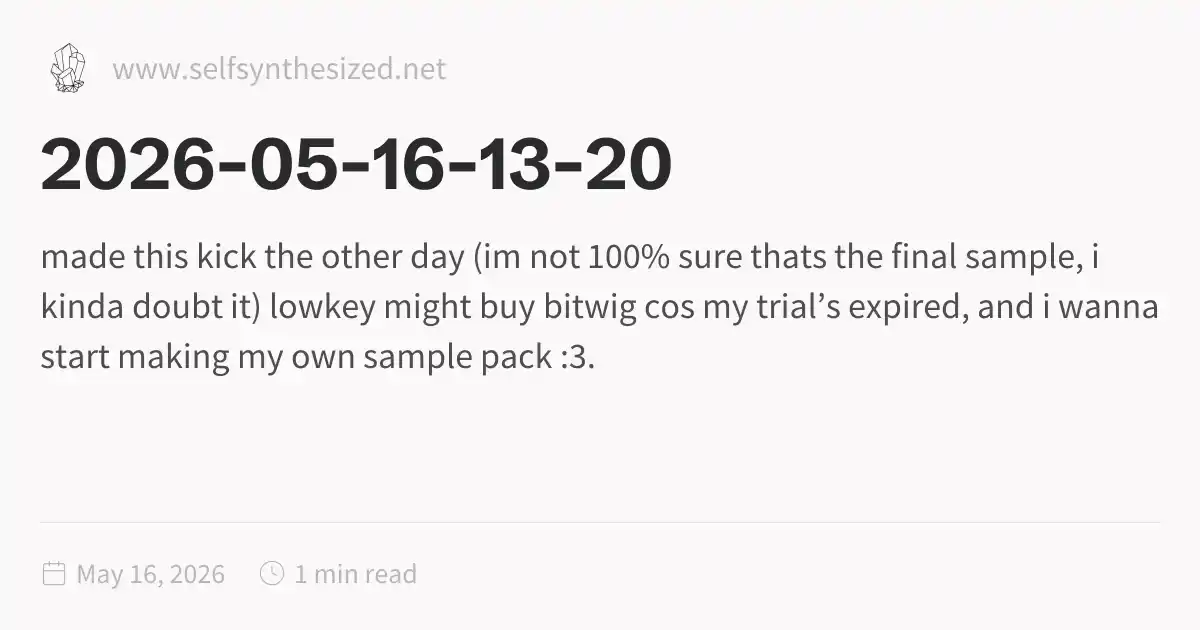
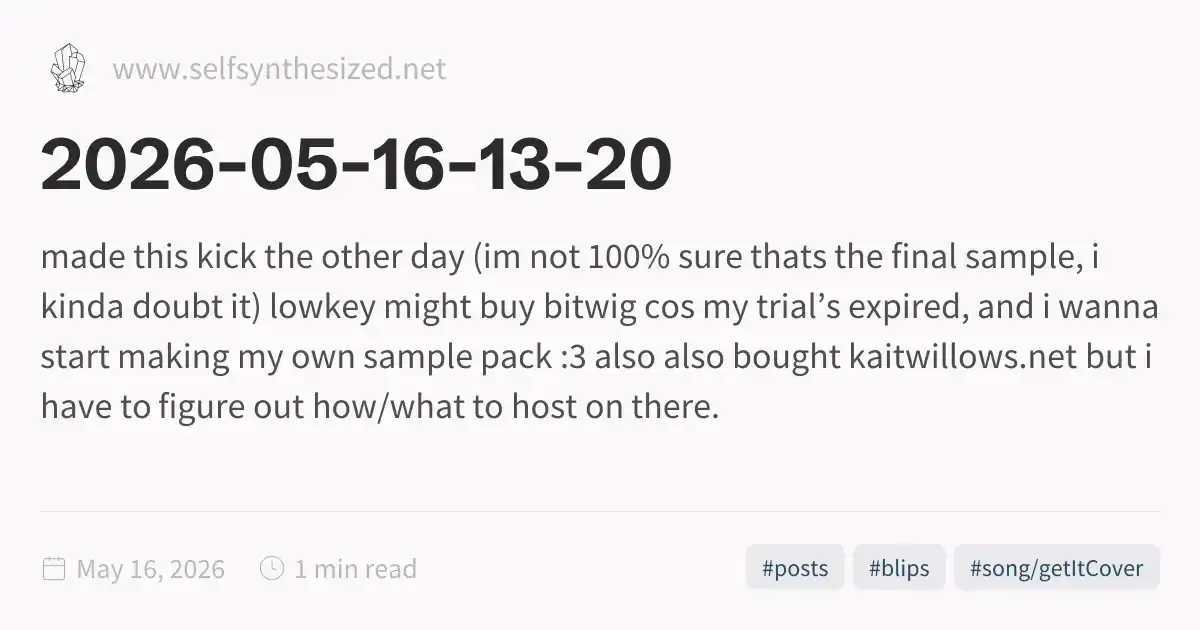
update

diff --git a/docs/timeline/2026-05-16-13-20.html b/docs/timeline/2026-05-16-13-20.html
@@ -1,5 +1,5 @@
 <!DOCTYPE html>
-<html lang="en" dir="ltr"><head><title>2026-05-16-13-20</title><meta charset="utf-8"/><link rel="preconnect" href="https://fonts.googleapis.com"/><link rel="preconnect" href="https://fonts.gstatic.com"/><link rel="stylesheet" href="https://fonts.googleapis.com/css2?family=Schibsted Grotesk:wght@400;700&amp;family=Source Sans Pro:ital,wght@0,400;0,600;1,400;1,600&amp;family=IBM Plex Mono:wght@400;600&amp;display=swap"/><link rel="preconnect" href="https://cdnjs.cloudflare.com" crossorigin="anonymous"/><meta name="viewport" content="width=device-width, initial-scale=1.0"/><meta name="og:site_name" content="selfsynthesized"/><meta property="og:title" content="2026-05-16-13-20"/><meta property="og:type" content="website"/><meta name="twitter:card" content="summary_large_image"/><meta name="twitter:title" content="2026-05-16-13-20"/><meta name="twitter:description" content="made this kick the other day (im not 100% sure thats the final sample, i kinda doubt it) lowkey might buy bitwig cos my trial’s expired, and i wanna start making my own sample pack :3."/><meta property="og:description" content="made this kick the other day (im not 100% sure thats the final sample, i kinda doubt it) lowkey might buy bitwig cos my trial’s expired, and i wanna start making my own sample pack :3."/><meta property="og:image:alt" content="made this kick the other day (im not 100% sure thats the final sample, i kinda doubt it) lowkey might buy bitwig cos my trial’s expired, and i wanna start making my own sample pack :3."/><meta property="twitter:domain" content="www.selfsynthesized.net"/><meta property="og:url" content="https://www.selfsynthesized.net/timeline/2026-05-16-13-20"/><meta property="twitter:url" content="https://www.selfsynthesized.net/timeline/2026-05-16-13-20"/><link rel="icon" href="../static/icon.png"/><meta name="description" content="made this kick the other day (im not 100% sure thats the final sample, i kinda doubt it) lowkey might buy bitwig cos my trial’s expired, and i wanna start making my own sample pack :3."/><meta name="generator" content="Quartz"/><link href="../index.css" rel="stylesheet" type="text/css" data-persist="true"/><style>.expand-button {
+<html lang="en" dir="ltr"><head><title>2026-05-16-13-20</title><meta charset="utf-8"/><link rel="preconnect" href="https://fonts.googleapis.com"/><link rel="preconnect" href="https://fonts.gstatic.com"/><link rel="stylesheet" href="https://fonts.googleapis.com/css2?family=Schibsted Grotesk:wght@400;700&amp;family=Source Sans Pro:ital,wght@0,400;0,600;1,400;1,600&amp;family=IBM Plex Mono:wght@400;600&amp;display=swap"/><link rel="preconnect" href="https://cdnjs.cloudflare.com" crossorigin="anonymous"/><meta name="viewport" content="width=device-width, initial-scale=1.0"/><meta name="og:site_name" content="selfsynthesized"/><meta property="og:title" content="2026-05-16-13-20"/><meta property="og:type" content="website"/><meta name="twitter:card" content="summary_large_image"/><meta name="twitter:title" content="2026-05-16-13-20"/><meta name="twitter:description" content="made this kick the other day (im not 100% sure thats the final sample, i kinda doubt it) lowkey might buy bitwig cos my trial’s expired, and i wanna start making my own sample pack :3 also also bought kaitwillows.net but i have to figure out how/what to host on there."/><meta property="og:description" content="made this kick the other day (im not 100% sure thats the final sample, i kinda doubt it) lowkey might buy bitwig cos my trial’s expired, and i wanna start making my own sample pack :3 also also bought kaitwillows.net but i have to figure out how/what to host on there."/><meta property="og:image:alt" content="made this kick the other day (im not 100% sure thats the final sample, i kinda doubt it) lowkey might buy bitwig cos my trial’s expired, and i wanna start making my own sample pack :3 also also bought kaitwillows.net but i have to figure out how/what to host on there."/><meta property="twitter:domain" content="www.selfsynthesized.net"/><meta property="og:url" content="https://www.selfsynthesized.net/timeline/2026-05-16-13-20"/><meta property="twitter:url" content="https://www.selfsynthesized.net/timeline/2026-05-16-13-20"/><link rel="icon" href="../static/icon.png"/><meta name="description" content="made this kick the other day (im not 100% sure thats the final sample, i kinda doubt it) lowkey might buy bitwig cos my trial’s expired, and i wanna start making my own sample pack :3 also also bought kaitwillows.net but i have to figure out how/what to host on there."/><meta name="generator" content="Quartz"/><link href="../index.css" rel="stylesheet" type="text/css" data-persist="true"/><style>.expand-button {
   position: absolute;
   display: flex;
   float: right;
@@ -115,11 +115,12 @@ pre:hover > .expand-button {
   padding: 0 12px;
   font-size: 14px;
 }
[2 lines of base64/hex data omitted]
 <p><audio src="../2026-05-05-kick-slightly-better.flac" controls></audio></p>
 <p>(im not 100% sure thats the final sample, i kinda doubt it)</p>
 <p><iframe class="external-embed youtube" allow="fullscreen" frameborder="0" width="600px" src="https://www.youtube.com/embed/GOWPbMAe9OY"></iframe></p>
-<p>lowkey might buy bitwig cos my trial’s expired, and i wanna start making my own sample pack :3</p></article><hr/><div class="page-footer"></div></div><div class="right sidebar"><div class="graph"><h3>Graph View</h3><div class="graph-outer"><div class="graph-container" data-cfg="{&quot;drag&quot;:true,&quot;zoom&quot;:true,&quot;depth&quot;:1,&quot;scale&quot;:1.1,&quot;repelForce&quot;:0.5,&quot;centerForce&quot;:0.3,&quot;linkDistance&quot;:30,&quot;fontSize&quot;:0.6,&quot;opacityScale&quot;:1,&quot;showTags&quot;:true,&quot;removeTags&quot;:[],&quot;focusOnHover&quot;:false,&quot;enableRadial&quot;:false}"></div><button class="global-graph-icon" aria-label="Global Graph"><svg version="1.1" xmlns="http://www.w3.org/2000/svg" xmlns:xlink="http://www.w3.org/1999/xlink" x="0px" y="0px" viewBox="0 0 55 55" fill="currentColor" xml:space="preserve"><path d="M49,0c-3.309,0-6,2.691-6,6c0,1.035,0.263,2.009,0.726,2.86l-9.829,9.829C32.542,17.634,30.846,17,29,17
+<p>lowkey might buy bitwig cos my trial’s expired, and i wanna start making my own sample pack :3</p>
+<p>also also bought kaitwillows.net but i have to figure out how/what to host on there</p></article><hr/><div class="page-footer"></div></div><div class="right sidebar"><div class="graph"><h3>Graph View</h3><div class="graph-outer"><div class="graph-container" data-cfg="{&quot;drag&quot;:true,&quot;zoom&quot;:true,&quot;depth&quot;:1,&quot;scale&quot;:1.1,&quot;repelForce&quot;:0.5,&quot;centerForce&quot;:0.3,&quot;linkDistance&quot;:30,&quot;fontSize&quot;:0.6,&quot;opacityScale&quot;:1,&quot;showTags&quot;:true,&quot;removeTags&quot;:[],&quot;focusOnHover&quot;:false,&quot;enableRadial&quot;:false}"></div><button class="global-graph-icon" aria-label="Global Graph"><svg version="1.1" xmlns="http://www.w3.org/2000/svg" xmlns:xlink="http://www.w3.org/1999/xlink" x="0px" y="0px" viewBox="0 0 55 55" fill="currentColor" xml:space="preserve"><path d="M49,0c-3.309,0-6,2.691-6,6c0,1.035,0.263,2.009,0.726,2.86l-9.829,9.829C32.542,17.634,30.846,17,29,17
                 s-3.542,0.634-4.898,1.688l-7.669-7.669C16.785,10.424,17,9.74,17,9c0-2.206-1.794-4-4-4S9,6.794,9,9s1.794,4,4,4
                 c0.74,0,1.424-0.215,2.019-0.567l7.669,7.669C21.634,21.458,21,23.154,21,25s0.634,3.542,1.688,4.897L10.024,42.562
                 C8.958,41.595,7.549,41,6,41c-3.309,0-6,2.691-6,6s2.691,6,6,6s6-2.691,6-6c0-1.035-0.263-2.009-0.726-2.86l12.829-12.829

diff --git a/docs/pages/music-roadmap.html b/docs/pages/music-roadmap.html
@@ -115,7 +115,7 @@ pre:hover > .expand-button {
   padding: 0 12px;
   font-size: 14px;
 }
[2 lines of base64/hex data omitted]
 <li>in progress:
 <ul>
 <li><a href=".././tags/song/smallForYou" class="tag-link internal alias" data-slug="tags/song/smallForYou">smallForYou</a></li>

diff --git a/docs/pages/stream.html b/docs/pages/stream.html
@@ -115,7 +115,7 @@ pre:hover > .expand-button {
   padding: 0 12px;
   font-size: 14px;
 }
[2 lines of base64/hex data omitted]
 <p>downloads are also free on my <a href="https://kaitwillows.bandcamp.com" class="external">bandcamp page<svg aria-hidden="true" class="external-icon" style="max-width:0.8em;max-height:0.8em;" viewBox="0 0 512 512"><path d="M320 0H288V64h32 82.7L201.4 265.4 178.7 288 224 333.3l22.6-22.6L448 109.3V192v32h64V192 32 0H480 320zM32 32H0V64 480v32H32 456h32V480 352 320H424v32 96H64V96h96 32V32H160 32z"></path></svg></a>.</p></article><hr/><div class="page-footer"></div></div><div class="right sidebar"><div class="graph"><h3>Graph View</h3><div class="graph-outer"><div class="graph-container" data-cfg="{&quot;drag&quot;:true,&quot;zoom&quot;:true,&quot;depth&quot;:1,&quot;scale&quot;:1.1,&quot;repelForce&quot;:0.5,&quot;centerForce&quot;:0.3,&quot;linkDistance&quot;:30,&quot;fontSize&quot;:0.6,&quot;opacityScale&quot;:1,&quot;showTags&quot;:true,&quot;removeTags&quot;:[],&quot;focusOnHover&quot;:false,&quot;enableRadial&quot;:false}"></div><button class="global-graph-icon" aria-label="Global Graph"><svg version="1.1" xmlns="http://www.w3.org/2000/svg" xmlns:xlink="http://www.w3.org/1999/xlink" x="0px" y="0px" viewBox="0 0 55 55" fill="currentColor" xml:space="preserve"><path d="M49,0c-3.309,0-6,2.691-6,6c0,1.035,0.263,2.009,0.726,2.86l-9.829,9.829C32.542,17.634,30.846,17,29,17
                 s-3.542,0.634-4.898,1.688l-7.669-7.669C16.785,10.424,17,9.74,17,9c0-2.206-1.794-4-4-4S9,6.794,9,9s1.794,4,4,4
                 c0.74,0,1.424-0.215,2.019-0.567l7.669,7.669C21.634,21.458,21,23.154,21,25s0.634,3.542,1.688,4.897L10.024,42.562

diff --git a/docs/pages/the-music-i-write.html b/docs/pages/the-music-i-write.html
@@ -115,7 +115,7 @@ pre:hover > .expand-button {
   padding: 0 12px;
   font-size: 14px;
 }
[2 lines of base64/hex data omitted]
 <p>#<a href="../tags/blips" class="internal" data-slug="tags/blips">blips</a> is where i usually put anything i’m currently working on.</p>
 <p>some songs, often ones with visual components, i post to <a href="https://youtu.be/INYoBaVAFYw?si=8uaxEj94CCN4vbyk" class="external">youtube<svg aria-hidden="true" class="external-icon" style="max-width:0.8em;max-height:0.8em;" viewBox="0 0 512 512"><path d="M320 0H288V64h32 82.7L201.4 265.4 178.7 288 224 333.3l22.6-22.6L448 109.3V192v32h64V192 32 0H480 320zM32 32H0V64 480v32H32 456h32V480 352 320H424v32 96H64V96h96 32V32H160 32z"></path></svg></a> as well</p>
 <p><iframe class="external-embed youtube" allow="fullscreen" frameborder="0" width="600px" src="https://www.youtube.com/embed/XXEMCmAFXMw"></iframe></p>

diff --git a/docs/pages/things-i-want-to-make.html b/docs/pages/things-i-want-to-make.html
@@ -115,7 +115,7 @@ pre:hover > .expand-button {
   padding: 0 12px;
   font-size: 14px;
 }
[2 lines of base64/hex data omitted]
 <ul>
 <li>music things</li>
 <li>cs things

diff --git a/docs/pages/todo.html b/docs/pages/todo.html
@@ -115,7 +115,7 @@ pre:hover > .expand-button {
   padding: 0 12px;
   font-size: 14px;
 }
[2 lines of base64/hex data omitted]
 <h1 id="todo-list-for-me">todo list (for me)<a role="anchor" aria-hidden="true" tabindex="-1" data-no-popover="true" href="#todo-list-for-me" class="internal"><svg width="18" height="18" viewBox="0 0 24 24" fill="none" stroke="currentColor" stroke-width="2" stroke-linecap="round" stroke-linejoin="round"><path d="M10 13a5 5 0 0 0 7.54.54l3-3a5 5 0 0 0-7.07-7.07l-1.72 1.71"></path><path d="M14 11a5 5 0 0 0-7.54-.54l-3 3a5 5 0 0 0 7.07 7.07l1.71-1.71"></path></svg></a></h1>
 <p>ignore all this, idk if any of it will make sense</p>
 <ul class="contains-task-list">

diff --git a/docs/songObsessions/Camellia---Newspapers-for-Magicians.html b/docs/songObsessions/Camellia---Newspapers-for-Magicians.html
@@ -115,7 +115,7 @@ pre:hover > .expand-button {
   padding: 0 12px;
   font-size: 14px;
 }
[2 lines of base64/hex data omitted]
 <p>i really want to make something like this. idk why but this song feels similar to <a href="../songObsessions/Vylet-Pony---ANTONYMPH-(Vylet-Ponystep-Remix)" class="internal alias" data-slug="songObsessions/Vylet-Pony---ANTONYMPH-(Vylet-Ponystep-Remix)">vylet pony’s antonymph self-remix</a> they’re both so good</p></article><hr/><div class="page-footer"></div></div><div class="right sidebar"><div class="graph"><h3>Graph View</h3><div class="graph-outer"><div class="graph-container" data-cfg="{&quot;drag&quot;:true,&quot;zoom&quot;:true,&quot;depth&quot;:1,&quot;scale&quot;:1.1,&quot;repelForce&quot;:0.5,&quot;centerForce&quot;:0.3,&quot;linkDistance&quot;:30,&quot;fontSize&quot;:0.6,&quot;opacityScale&quot;:1,&quot;showTags&quot;:true,&quot;removeTags&quot;:[],&quot;focusOnHover&quot;:false,&quot;enableRadial&quot;:false}"></div><button class="global-graph-icon" aria-label="Global Graph"><svg version="1.1" xmlns="http://www.w3.org/2000/svg" xmlns:xlink="http://www.w3.org/1999/xlink" x="0px" y="0px" viewBox="0 0 55 55" fill="currentColor" xml:space="preserve"><path d="M49,0c-3.309,0-6,2.691-6,6c0,1.035,0.263,2.009,0.726,2.86l-9.829,9.829C32.542,17.634,30.846,17,29,17
                 s-3.542,0.634-4.898,1.688l-7.669-7.669C16.785,10.424,17,9.74,17,9c0-2.206-1.794-4-4-4S9,6.794,9,9s1.794,4,4,4
                 c0.74,0,1.424-0.215,2.019-0.567l7.669,7.669C21.634,21.458,21,23.154,21,25s0.634,3.542,1.688,4.897L10.024,42.562

diff --git a/docs/songObsessions/Milkoi---a-barley-scented-village.html b/docs/songObsessions/Milkoi---a-barley-scented-village.html
@@ -115,7 +115,7 @@ pre:hover > .expand-button {
   padding: 0 12px;
   font-size: 14px;
 }
[2 lines of base64/hex data omitted]
                 s-3.542,0.634-4.898,1.688l-7.669-7.669C16.785,10.424,17,9.74,17,9c0-2.206-1.794-4-4-4S9,6.794,9,9s1.794,4,4,4
                 c0.74,0,1.424-0.215,2.019-0.567l7.669,7.669C21.634,21.458,21,23.154,21,25s0.634,3.542,1.688,4.897L10.024,42.562
                 C8.958,41.595,7.549,41,6,41c-3.309,0-6,2.691-6,6s2.691,6,6,6s6-2.691,6-6c0-1.035-0.263-2.009-0.726-2.86l12.829-12.829

diff --git a/docs/songObsessions/Vylet-Pony---ANTONYMPH-(Vylet-Ponystep-Remix).html b/docs/songObsessions/Vylet-Pony---ANTONYMPH-(Vylet-Ponystep-Remix).html
@@ -115,7 +115,7 @@ pre:hover > .expand-button {
   padding: 0 12px;
   font-size: 14px;
 }
[2 lines of base64/hex data omitted]
                 s-3.542,0.634-4.898,1.688l-7.669-7.669C16.785,10.424,17,9.74,17,9c0-2.206-1.794-4-4-4S9,6.794,9,9s1.794,4,4,4
                 c0.74,0,1.424-0.215,2.019-0.567l7.669,7.669C21.634,21.458,21,23.154,21,25s0.634,3.542,1.688,4.897L10.024,42.562
                 C8.958,41.595,7.549,41,6,41c-3.309,0-6,2.691-6,6s2.691,6,6,6s6-2.691,6-6c0-1.035-0.263-2.009-0.726-2.86l12.829-12.829

diff --git a/docs/tags/TODO.html b/docs/tags/TODO.html
@@ -115,6 +115,6 @@ pre:hover > .expand-button {
   padding: 0 12px;
   font-size: 14px;
 }
[2 lines of base64/hex data omitted]
 </script><script type="module" data-persist="true">function E(a,e){if(!a)return;function t(o){o.target===this&&(o.preventDefault(),o.stopPropagation(),e())}function n(o){o.key.startsWith("Esc")&&(o.preventDefault(),e())}a?.addEventListener("click",t),window.addCleanup(()=>a?.removeEventListener("click",t)),document.addEventListener("keydown",n),window.addCleanup(()=>document.removeEventListener("keydown",n))}function f(a){for(;a.firstChild;)a.removeChild(a.firstChild)}var m=class{constructor(e,t){this.container=e;this.content=t;this.setupEventListeners(),this.setupNavigationControls(),this.resetTransform()}isDragging=!1;startPan={x:0,y:0};currentPan={x:0,y:0};scale=1;MIN_SCALE=.5;MAX_SCALE=3;cleanups=[];setupEventListeners(){let e=this.onMouseDown.bind(this),t=this.onMouseMove.bind(this),n=this.onMouseUp.bind(this),o=this.onTouchStart.bind(this),r=this.onTouchMove.bind(this),i=this.onTouchEnd.bind(this),s=this.resetTransform.bind(this);this.container.addEventListener("mousedown",e),document.addEventListener("mousemove",t),document.addEventListener("mouseup",n),this.container.addEventListener("touchstart",o,{passive:!1}),document.addEventListener("touchmove",r,{passive:!1}),document.addEventListener("touchend",i),window.addEventListener("resize",s),this.cleanups.push(()=>this.container.removeEventListener("mousedown",e),()=>document.removeEventListener("mousemove",t),()=>document.removeEventListener("mouseup",n),()=>this.container.removeEventListener("touchstart",o),()=>document.removeEventListener("touchmove",r),()=>document.removeEventListener("touchend",i),()=>window.removeEventListener("resize",s))}cleanup(){for(let e of this.cleanups)e()}setupNavigationControls(){let e=document.createElement("div");e.className="mermaid-controls";let t=this.createButton("+",()=>this.zoom(.1)),n=this.createButton("-",()=>this.zoom(-.1)),o=this.createButton("Reset",()=>this.resetTransform());e.appendChild(n),e.appendChild(o),e.appendChild(t),this.container.appendChild(e)}createButton(e,t){let n=document.createElement("button");return n.textContent=e,n.className="mermaid-control-button",n.addEventListener("click",t),window.addCleanup(()=>n.removeEventListener("click",t)),n}onMouseDown(e){e.button===0&&(this.isDragging=!0,this.startPan={x:e.clientX-this.currentPan.x,y:e.clientY-this.currentPan.y},this.container.style.cursor="grabbing")}onMouseMove(e){this.isDragging&&(e.preventDefault(),this.currentPan={x:e.clientX-this.startPan.x,y:e.clientY-this.startPan.y},this.updateTransform())}onMouseUp(){this.isDragging=!1,this.container.style.cursor="grab"}onTouchStart(e){if(e.touches.length!==1)return;this.isDragging=!0;let t=e.touches[0];this.startPan={x:t.clientX-this.currentPan.x,y:t.clientY-this.currentPan.y}}onTouchMove(e){if(!this.isDragging||e.touches.length!==1)return;e.preventDefault();let t=e.touches[0];this.currentPan={x:t.clientX-this.startPan.x,y:t.clientY-this.startPan.y},this.updateTransform()}onTouchEnd(){this.isDragging=!1}zoom(e){let t=Math.min(Math.max(this.scale+e,this.MIN_SCALE),this.MAX_SCALE),n=this.content.getBoundingClientRect(),o=n.width/2,r=n.height/2,i=t-this.scale;this.currentPan.x-=o*i,this.currentPan.y-=r*i,this.scale=t,this.updateTransform()}updateTransform(){this.content.style.transform=`translate(${this.currentPan.x}px, ${this.currentPan.y}px) scale(${this.scale})`}resetTransform(){let t=this.content.querySelector("svg").getBoundingClientRect(),n=t.width/this.scale,o=t.height/this.scale;this.scale=1,this.currentPan={x:(this.container.clientWidth-n)/2,y:(this.container.clientHeight-o)/2},this.updateTransform()}},T=["--secondary","--tertiary","--gray","--light","--lightgray","--highlight","--dark","--darkgray","--codeFont"],y;document.addEventListener("nav",async()=>{let e=document.querySelector(".center").querySelectorAll("code.mermaid");if(e.length===0)return;y||=await import("https://cdnjs.cloudflare.com/ajax/libs/mermaid/11.4.0/mermaid.esm.min.mjs");let t=y.default,n=new WeakMap;for(let r of e)n.set(r,r.innerText);async function o(){for(let s of e){s.removeAttribute("data-processed");let c=n.get(s);c&&(s.innerHTML=c)}let r=T.reduce((s,c)=>(s[c]=window.getComputedStyle(document.documentElement).getPropertyValue(c),s),{}),i=document.documentElement.getAttribute("saved-theme")==="dark";t.initialize({startOnLoad:!1,securityLevel:"loose",theme:i?"dark":"base",themeVariables:{fontFamily:r["--codeFont"],primaryColor:r["--light"],primaryTextColor:r["--darkgray"],primaryBorderColor:r["--tertiary"],lineColor:r["--darkgray"],secondaryColor:r["--secondary"],tertiaryColor:r["--tertiary"],clusterBkg:r["--light"],edgeLabelBackground:r["--highlight"]}}),await t.run({nodes:e})}await o(),document.addEventListener("themechange",o),window.addCleanup(()=>document.removeEventListener("themechange",o));for(let r=0;r<e.length;r++){let v=function(){let g=l.querySelector("#mermaid-space"),h=l.querySelector(".mermaid-content");if(!h)return;f(h);let w=i.querySelector("svg").cloneNode(!0);h.appendChild(w),l.classList.add("active"),g.style.cursor="grab",u=new m(g,h)},M=function(){l.classList.remove("active"),u?.cleanup(),u=null},i=e[r],s=i.parentElement,c=s.querySelector(".clipboard-button"),d=s.querySelector(".expand-button"),p=window.getComputedStyle(c),L=c.offsetWidth+parseFloat(p.marginLeft||"0")+parseFloat(p.marginRight||"0");d.style.right=`calc(${L}px + 0.3rem)`,s.prepend(d);let l=s.querySelector("#mermaid-container");if(!l)return;let u=null;d.addEventListener("click",v),E(l,M),window.addCleanup(()=>{u?.cleanup(),d.removeEventListener("click",v)})}});
 </script><script src="https://cdn.jsdelivr.net/npm/katex@0.16.11/dist/contrib/copy-tex.min.js" type="application/javascript" data-persist="true"></script><script src="../postscript.js" type="module" data-persist="true"></script></html>

diff --git a/docs/tags/blips.html b/docs/tags/blips.html
@@ -115,6 +115,6 @@ pre:hover > .expand-button {
   padding: 0 12px;
   font-size: 14px;
 }
[2 lines of base64/hex data omitted]
 </script><script type="module" data-persist="true">function E(a,e){if(!a)return;function t(o){o.target===this&&(o.preventDefault(),o.stopPropagation(),e())}function n(o){o.key.startsWith("Esc")&&(o.preventDefault(),e())}a?.addEventListener("click",t),window.addCleanup(()=>a?.removeEventListener("click",t)),document.addEventListener("keydown",n),window.addCleanup(()=>document.removeEventListener("keydown",n))}function f(a){for(;a.firstChild;)a.removeChild(a.firstChild)}var m=class{constructor(e,t){this.container=e;this.content=t;this.setupEventListeners(),this.setupNavigationControls(),this.resetTransform()}isDragging=!1;startPan={x:0,y:0};currentPan={x:0,y:0};scale=1;MIN_SCALE=.5;MAX_SCALE=3;cleanups=[];setupEventListeners(){let e=this.onMouseDown.bind(this),t=this.onMouseMove.bind(this),n=this.onMouseUp.bind(this),o=this.onTouchStart.bind(this),r=this.onTouchMove.bind(this),i=this.onTouchEnd.bind(this),s=this.resetTransform.bind(this);this.container.addEventListener("mousedown",e),document.addEventListener("mousemove",t),document.addEventListener("mouseup",n),this.container.addEventListener("touchstart",o,{passive:!1}),document.addEventListener("touchmove",r,{passive:!1}),document.addEventListener("touchend",i),window.addEventListener("resize",s),this.cleanups.push(()=>this.container.removeEventListener("mousedown",e),()=>document.removeEventListener("mousemove",t),()=>document.removeEventListener("mouseup",n),()=>this.container.removeEventListener("touchstart",o),()=>document.removeEventListener("touchmove",r),()=>document.removeEventListener("touchend",i),()=>window.removeEventListener("resize",s))}cleanup(){for(let e of this.cleanups)e()}setupNavigationControls(){let e=document.createElement("div");e.className="mermaid-controls";let t=this.createButton("+",()=>this.zoom(.1)),n=this.createButton("-",()=>this.zoom(-.1)),o=this.createButton("Reset",()=>this.resetTransform());e.appendChild(n),e.appendChild(o),e.appendChild(t),this.container.appendChild(e)}createButton(e,t){let n=document.createElement("button");return n.textContent=e,n.className="mermaid-control-button",n.addEventListener("click",t),window.addCleanup(()=>n.removeEventListener("click",t)),n}onMouseDown(e){e.button===0&&(this.isDragging=!0,this.startPan={x:e.clientX-this.currentPan.x,y:e.clientY-this.currentPan.y},this.container.style.cursor="grabbing")}onMouseMove(e){this.isDragging&&(e.preventDefault(),this.currentPan={x:e.clientX-this.startPan.x,y:e.clientY-this.startPan.y},this.updateTransform())}onMouseUp(){this.isDragging=!1,this.container.style.cursor="grab"}onTouchStart(e){if(e.touches.length!==1)return;this.isDragging=!0;let t=e.touches[0];this.startPan={x:t.clientX-this.currentPan.x,y:t.clientY-this.currentPan.y}}onTouchMove(e){if(!this.isDragging||e.touches.length!==1)return;e.preventDefault();let t=e.touches[0];this.currentPan={x:t.clientX-this.startPan.x,y:t.clientY-this.startPan.y},this.updateTransform()}onTouchEnd(){this.isDragging=!1}zoom(e){let t=Math.min(Math.max(this.scale+e,this.MIN_SCALE),this.MAX_SCALE),n=this.content.getBoundingClientRect(),o=n.width/2,r=n.height/2,i=t-this.scale;this.currentPan.x-=o*i,this.currentPan.y-=r*i,this.scale=t,this.updateTransform()}updateTransform(){this.content.style.transform=`translate(${this.currentPan.x}px, ${this.currentPan.y}px) scale(${this.scale})`}resetTransform(){let t=this.content.querySelector("svg").getBoundingClientRect(),n=t.width/this.scale,o=t.height/this.scale;this.scale=1,this.currentPan={x:(this.container.clientWidth-n)/2,y:(this.container.clientHeight-o)/2},this.updateTransform()}},T=["--secondary","--tertiary","--gray","--light","--lightgray","--highlight","--dark","--darkgray","--codeFont"],y;document.addEventListener("nav",async()=>{let e=document.querySelector(".center").querySelectorAll("code.mermaid");if(e.length===0)return;y||=await import("https://cdnjs.cloudflare.com/ajax/libs/mermaid/11.4.0/mermaid.esm.min.mjs");let t=y.default,n=new WeakMap;for(let r of e)n.set(r,r.innerText);async function o(){for(let s of e){s.removeAttribute("data-processed");let c=n.get(s);c&&(s.innerHTML=c)}let r=T.reduce((s,c)=>(s[c]=window.getComputedStyle(document.documentElement).getPropertyValue(c),s),{}),i=document.documentElement.getAttribute("saved-theme")==="dark";t.initialize({startOnLoad:!1,securityLevel:"loose",theme:i?"dark":"base",themeVariables:{fontFamily:r["--codeFont"],primaryColor:r["--light"],primaryTextColor:r["--darkgray"],primaryBorderColor:r["--tertiary"],lineColor:r["--darkgray"],secondaryColor:r["--secondary"],tertiaryColor:r["--tertiary"],clusterBkg:r["--light"],edgeLabelBackground:r["--highlight"]}}),await t.run({nodes:e})}await o(),document.addEventListener("themechange",o),window.addCleanup(()=>document.removeEventListener("themechange",o));for(let r=0;r<e.length;r++){let v=function(){let g=l.querySelector("#mermaid-space"),h=l.querySelector(".mermaid-content");if(!h)return;f(h);let w=i.querySelector("svg").cloneNode(!0);h.appendChild(w),l.classList.add("active"),g.style.cursor="grab",u=new m(g,h)},M=function(){l.classList.remove("active"),u?.cleanup(),u=null},i=e[r],s=i.parentElement,c=s.querySelector(".clipboard-button"),d=s.querySelector(".expand-button"),p=window.getComputedStyle(c),L=c.offsetWidth+parseFloat(p.marginLeft||"0")+parseFloat(p.marginRight||"0");d.style.right=`calc(${L}px + 0.3rem)`,s.prepend(d);let l=s.querySelector("#mermaid-container");if(!l)return;let u=null;d.addEventListener("click",v),E(l,M),window.addCleanup(()=>{u?.cleanup(),d.removeEventListener("click",v)})}});
 </script><script src="https://cdn.jsdelivr.net/npm/katex@0.16.11/dist/contrib/copy-tex.min.js" type="application/javascript" data-persist="true"></script><script src="../postscript.js" type="module" data-persist="true"></script></html>

diff --git a/docs/tags/music.html b/docs/tags/music.html
@@ -115,6 +115,6 @@ pre:hover > .expand-button {
   padding: 0 12px;
   font-size: 14px;
 }
[2 lines of base64/hex data omitted]
 </script><script type="module" data-persist="true">function E(a,e){if(!a)return;function t(o){o.target===this&&(o.preventDefault(),o.stopPropagation(),e())}function n(o){o.key.startsWith("Esc")&&(o.preventDefault(),e())}a?.addEventListener("click",t),window.addCleanup(()=>a?.removeEventListener("click",t)),document.addEventListener("keydown",n),window.addCleanup(()=>document.removeEventListener("keydown",n))}function f(a){for(;a.firstChild;)a.removeChild(a.firstChild)}var m=class{constructor(e,t){this.container=e;this.content=t;this.setupEventListeners(),this.setupNavigationControls(),this.resetTransform()}isDragging=!1;startPan={x:0,y:0};currentPan={x:0,y:0};scale=1;MIN_SCALE=.5;MAX_SCALE=3;cleanups=[];setupEventListeners(){let e=this.onMouseDown.bind(this),t=this.onMouseMove.bind(this),n=this.onMouseUp.bind(this),o=this.onTouchStart.bind(this),r=this.onTouchMove.bind(this),i=this.onTouchEnd.bind(this),s=this.resetTransform.bind(this);this.container.addEventListener("mousedown",e),document.addEventListener("mousemove",t),document.addEventListener("mouseup",n),this.container.addEventListener("touchstart",o,{passive:!1}),document.addEventListener("touchmove",r,{passive:!1}),document.addEventListener("touchend",i),window.addEventListener("resize",s),this.cleanups.push(()=>this.container.removeEventListener("mousedown",e),()=>document.removeEventListener("mousemove",t),()=>document.removeEventListener("mouseup",n),()=>this.container.removeEventListener("touchstart",o),()=>document.removeEventListener("touchmove",r),()=>document.removeEventListener("touchend",i),()=>window.removeEventListener("resize",s))}cleanup(){for(let e of this.cleanups)e()}setupNavigationControls(){let e=document.createElement("div");e.className="mermaid-controls";let t=this.createButton("+",()=>this.zoom(.1)),n=this.createButton("-",()=>this.zoom(-.1)),o=this.createButton("Reset",()=>this.resetTransform());e.appendChild(n),e.appendChild(o),e.appendChild(t),this.container.appendChild(e)}createButton(e,t){let n=document.createElement("button");return n.textContent=e,n.className="mermaid-control-button",n.addEventListener("click",t),window.addCleanup(()=>n.removeEventListener("click",t)),n}onMouseDown(e){e.button===0&&(this.isDragging=!0,this.startPan={x:e.clientX-this.currentPan.x,y:e.clientY-this.currentPan.y},this.container.style.cursor="grabbing")}onMouseMove(e){this.isDragging&&(e.preventDefault(),this.currentPan={x:e.clientX-this.startPan.x,y:e.clientY-this.startPan.y},this.updateTransform())}onMouseUp(){this.isDragging=!1,this.container.style.cursor="grab"}onTouchStart(e){if(e.touches.length!==1)return;this.isDragging=!0;let t=e.touches[0];this.startPan={x:t.clientX-this.currentPan.x,y:t.clientY-this.currentPan.y}}onTouchMove(e){if(!this.isDragging||e.touches.length!==1)return;e.preventDefault();let t=e.touches[0];this.currentPan={x:t.clientX-this.startPan.x,y:t.clientY-this.startPan.y},this.updateTransform()}onTouchEnd(){this.isDragging=!1}zoom(e){let t=Math.min(Math.max(this.scale+e,this.MIN_SCALE),this.MAX_SCALE),n=this.content.getBoundingClientRect(),o=n.width/2,r=n.height/2,i=t-this.scale;this.currentPan.x-=o*i,this.currentPan.y-=r*i,this.scale=t,this.updateTransform()}updateTransform(){this.content.style.transform=`translate(${this.currentPan.x}px, ${this.currentPan.y}px) scale(${this.scale})`}resetTransform(){let t=this.content.querySelector("svg").getBoundingClientRect(),n=t.width/this.scale,o=t.height/this.scale;this.scale=1,this.currentPan={x:(this.container.clientWidth-n)/2,y:(this.container.clientHeight-o)/2},this.updateTransform()}},T=["--secondary","--tertiary","--gray","--light","--lightgray","--highlight","--dark","--darkgray","--codeFont"],y;document.addEventListener("nav",async()=>{let e=document.querySelector(".center").querySelectorAll("code.mermaid");if(e.length===0)return;y||=await import("https://cdnjs.cloudflare.com/ajax/libs/mermaid/11.4.0/mermaid.esm.min.mjs");let t=y.default,n=new WeakMap;for(let r of e)n.set(r,r.innerText);async function o(){for(let s of e){s.removeAttribute("data-processed");let c=n.get(s);c&&(s.innerHTML=c)}let r=T.reduce((s,c)=>(s[c]=window.getComputedStyle(document.documentElement).getPropertyValue(c),s),{}),i=document.documentElement.getAttribute("saved-theme")==="dark";t.initialize({startOnLoad:!1,securityLevel:"loose",theme:i?"dark":"base",themeVariables:{fontFamily:r["--codeFont"],primaryColor:r["--light"],primaryTextColor:r["--darkgray"],primaryBorderColor:r["--tertiary"],lineColor:r["--darkgray"],secondaryColor:r["--secondary"],tertiaryColor:r["--tertiary"],clusterBkg:r["--light"],edgeLabelBackground:r["--highlight"]}}),await t.run({nodes:e})}await o(),document.addEventListener("themechange",o),window.addCleanup(()=>document.removeEventListener("themechange",o));for(let r=0;r<e.length;r++){let v=function(){let g=l.querySelector("#mermaid-space"),h=l.querySelector(".mermaid-content");if(!h)return;f(h);let w=i.querySelector("svg").cloneNode(!0);h.appendChild(w),l.classList.add("active"),g.style.cursor="grab",u=new m(g,h)},M=function(){l.classList.remove("active"),u?.cleanup(),u=null},i=e[r],s=i.parentElement,c=s.querySelector(".clipboard-button"),d=s.querySelector(".expand-button"),p=window.getComputedStyle(c),L=c.offsetWidth+parseFloat(p.marginLeft||"0")+parseFloat(p.marginRight||"0");d.style.right=`calc(${L}px + 0.3rem)`,s.prepend(d);let l=s.querySelector("#mermaid-container");if(!l)return;let u=null;d.addEventListener("click",v),E(l,M),window.addCleanup(()=>{u?.cleanup(),d.removeEventListener("click",v)})}});
 </script><script src="https://cdn.jsdelivr.net/npm/katex@0.16.11/dist/contrib/copy-tex.min.js" type="application/javascript" data-persist="true"></script><script src="../postscript.js" type="module" data-persist="true"></script></html>